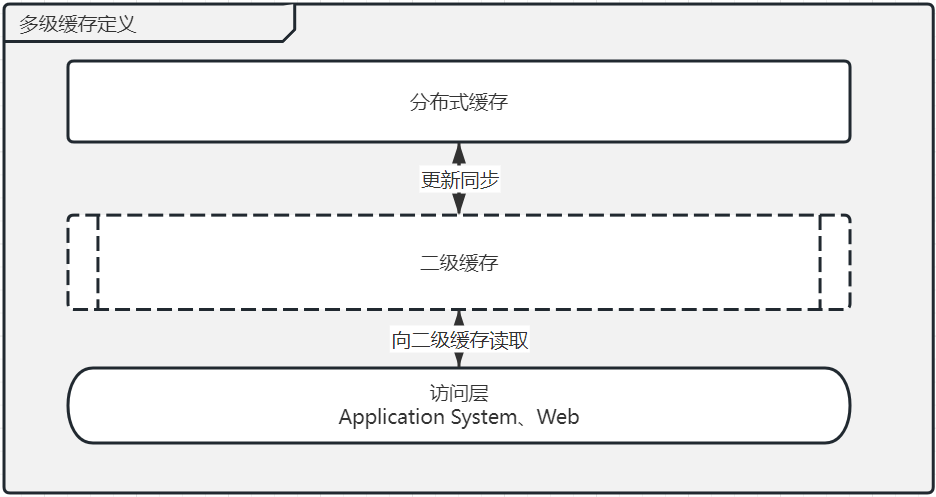
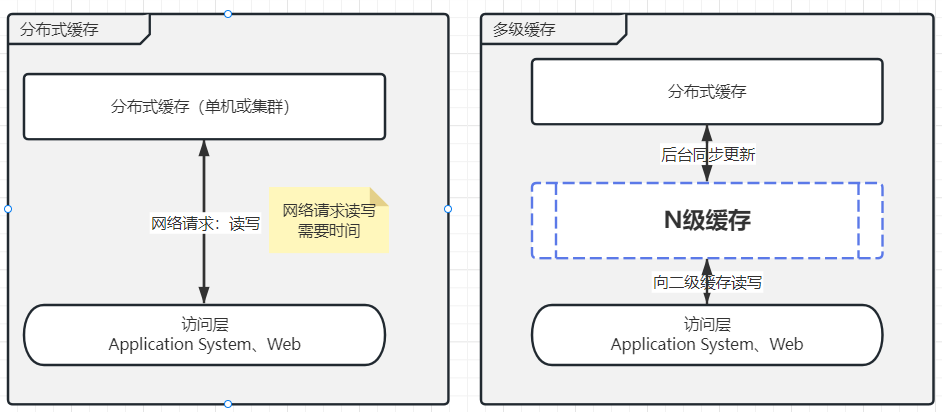
feat:完成成缓存文章：masa设计章节

Changed region(s): [[0.0, 0.0, 1.0, 1.0], [0.6816, 0.4951, 0.8056, 0.5825], [0.5887, 0.5243, 0.6197, 0.5534]]

diff --git a/docs/source_code_article/02-MasaFramework源码解读-Caching缓存.md b/docs/source_code_article/02-MasaFramework源码解读-Caching缓存.md
@@ -1,0 +1,48 @@
+# Masa Framework源码解读-缓存设计（分布式缓存进阶之多级缓存）
+
+## 序言
+
+		今天这篇文章来看看Masa Framework的缓存设计，上一篇文章中说到的MasaFactory的应用也会在这章节出现。文章中如有错误之处还请指点，咱们话不多说，直入主题。
+
+## Masa Framework缓存简介
+
+> MASA Framework源码地址：https://github.com/masastack/MASA.Framework
+
+		Masa Framework中的缓存组件支持 **```分布式缓存```** 和 **```分布式多级缓存```** （PS：Masa Framework的缓存组件并不与框架强行绑定，也就是说我们可以只使用masa framework的缓存组件，而不是我必须用masa framework才能使用它的缓存组件，这一点必须给官方点个大大的赞)。首先分布式缓存大家多多少少都听说过也用过，在这不多介绍分布式缓存的概念。我们来看下多级缓存吧，其实多级缓存这个概念很早就有，但是在.net中没怎么看到这个设计的落地实现框架，今天刚好借着源码解读，我们一起来看看masa framework的多级缓存设计。
+
+## 多级缓存的定义
+
+> 什么是多级缓存？既然已经有了分布式缓存，为什么还要多级缓存？
+
+		首先什么是多级缓存？多级缓存是指在一个系统的不同架构层级进行数据缓存，以提升访问效率。其次有了分布式缓存，为什么还要多级缓存？是因为在读取数据频率很高的情况下，分布式缓存面临着两个问题：响应速度和高可用。响应速度问题是指当访问层发一起一个网络请求到分布式缓存处理完请求返回的时间，是需要一个过程，而网络请求的不确定性以及耗时时长是不可避免的。而高可用问题是指大量读取数据请求过来读取缓存的时候，分布式缓存能否扛得住这么大的压力，当然这个有解决方案可以使用集群解决，但是集群之后会有数据一致性问题并且它读取数据还是得走网络通信。
+
+		而多级缓存就是为了优化分布式缓存存在的一些问题，而衍生另一种手段。所谓多级缓存可以简单理解为是通过在分布式缓存和我们的访问层中间在增加若干层缓存来减少对分布式缓存的网络请求和分布式缓存的压力。
+
+![multilevel_cache_](images\multilevel_cache\multilevel_cache.png)
+
+## MASA Framework中的多级缓存设计
+
+ 首先Masa Framework有一套分布式缓存接口及实现，而Masa Framework的多级缓存是在分布式缓存的基础上，在加了一层内存缓存。而多级缓存数据的一致性问题，masa framework是通过redis的pub、sub发布订阅解决的（PS：这块的发布订阅官方有一个抽象，并不直接依赖redis，请往下看）。
+
+* 当访问层读取缓存数据时，先从内存里面获取下，如果没有则向分布式缓存获取并写入到内存缓存，并且同时开启一个关于缓存key的分布式订阅，如果收到消息则同步更新内存缓存。
+
+* 当访问层写入缓存时，同时写入内存以及分布式缓存，然后再发布关于缓存key的分布式消息，其它客户端收到消息时则同步更新各自内存缓存数据。
+
+![](./images/multilevel_cache/masa_design.png)
+
+## 源码解读
+
+* 首先我们把源码下载下来，然后打开。masa framework缓存组件分为两部分，一个是BuildingBlocks下的Caching抽象接口，另外一个是Contrib下的Caching接口实现。结构如下图：
+
+![](./images/multilevel_cache/source_struct_define.png)
+
+
+
+## Demo案例
+
+
+
+
+
+## 总结
+
